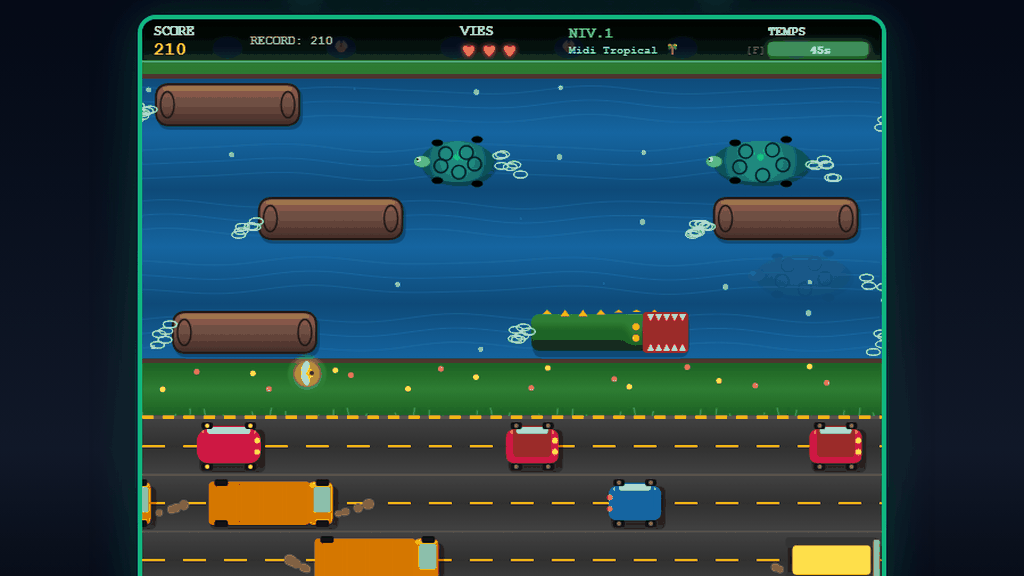
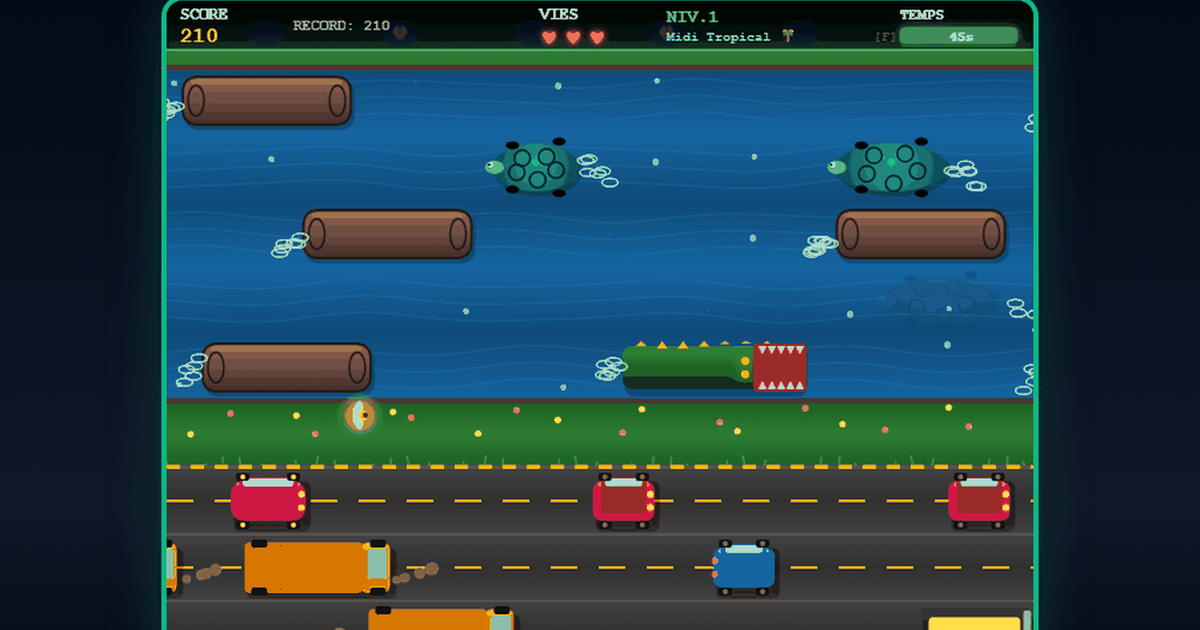
Open Graph : image 1200 x 630 et metadonnees completes

diff --git a/index.html b/index.html
@@ -9,13 +9,17 @@
     <meta property="og:type" content="website" />
     <meta property="og:title" content="Coâ Coâ Express, la traversée qui pique" />
     <meta property="og:description" content="Traversez la route puis la rivière sans finir écrasé, noyé ou croqué. 10 décors, combos, mouches bonus. Direct dans le navigateur." />
-    <meta property="og:image" content="https://games.hylst.fr/coacoaexpress/og-image.png" />
+    <meta property="og:image" content="https://games.hylst.fr/coacoaexpress/og-image.png?v=2" />
+    <meta property="og:image:type" content="image/png" />
+    <meta property="og:image:width" content="1200" />
+    <meta property="og:image:height" content="630" />
+    <meta property="og:image:alt" content="Coâ Coâ Express, la traversée qui pique" />
     <meta property="og:url" content="https://games.hylst.fr/coacoaexpress/" />
     <meta property="og:site_name" content="Hylst.Games" />
     <meta name="twitter:card" content="summary_large_image" />
     <meta name="twitter:title" content="Coâ Coâ Express, la traversée qui pique" />
     <meta name="twitter:description" content="Traversez la route puis la rivière sans finir écrasé, noyé ou croqué par le caïman." />
-    <meta name="twitter:image" content="https://games.hylst.fr/coacoaexpress/og-image.png" />
+    <meta name="twitter:image" content="https://games.hylst.fr/coacoaexpress/og-image.png?v=2" />
     <meta name="robots" content="index, follow" />
     <meta name="theme-color" content="#0f051d" />
     <link rel="canonical" href="https://games.hylst.fr/coacoaexpress/" />
